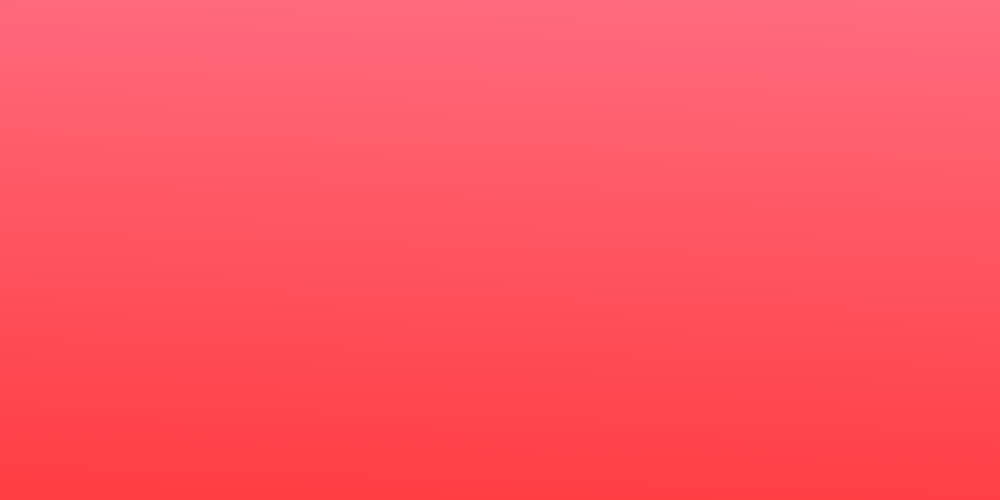
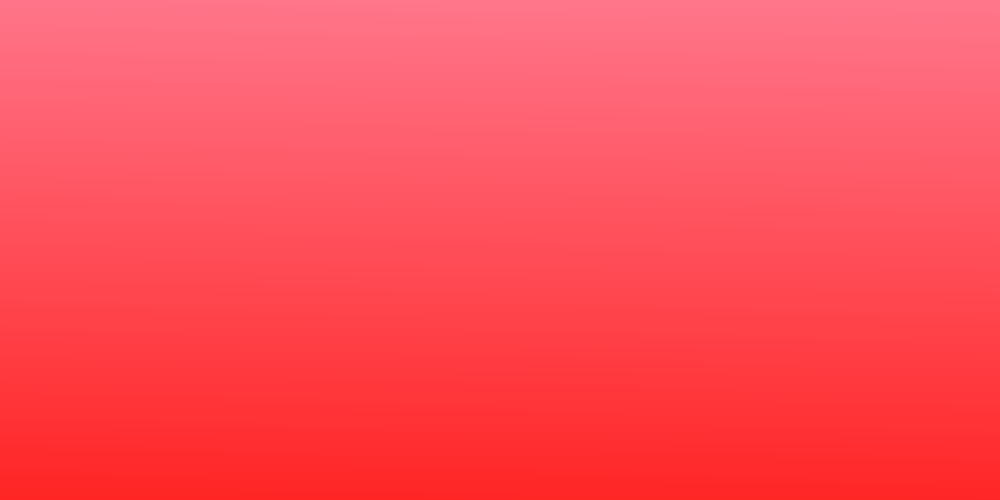
Add sprite bg and more

Changed region(s): [[0.0, 0.84, 1.0, 1.0]]

diff --git a/app.py b/app.py
@@ -2,7 +2,7 @@ import pygame
 from pygame.locals import *
 
 
-#dolor defenitions
+#color defenitions
 BLACK = (0, 0, 0)
 GRAY = (127, 127, 127)
 WHITE = (255, 255, 255)
@@ -20,9 +20,9 @@ LIGHT_ORANGE = (240, 200, 0)
 #init window
 pygame.init()
 displayInfo = pygame.display.Info()
-screen = pygame.display.set_mode((displayInfo.current_w, displayInfo.current_h))
-background = LIGHT_ORANGE
-
+screen = pygame.display.set_mode((1000, 500))
+background = pygame.image.load("bg.png").convert_alpha(screen)
+pygame.mouse.set_visible(False)
 
 #init game
 running = True
@@ -35,7 +35,8 @@ def draw_sprite(sprite, position):
 	screen.blit(sprite, position)
 
 def draw_bg():
-	screen.fill(background)
+	screen.blit(background, (0,0))
+	#screen.fill(background)
 
 #Game Loop
 while running:
@@ -50,7 +51,7 @@ while running:
 		#game logic
 
 		mouse_pos = pygame.mouse.get_pos()
-		player_pos = (mouse_pos[0], 500)
+		player_pos = mouse_pos
 		player_pos = (player_pos[0] - (player_image.get_width() / 2), player_pos[1] - (player_image.get_height() / 2))
 
 		#draw sprites
